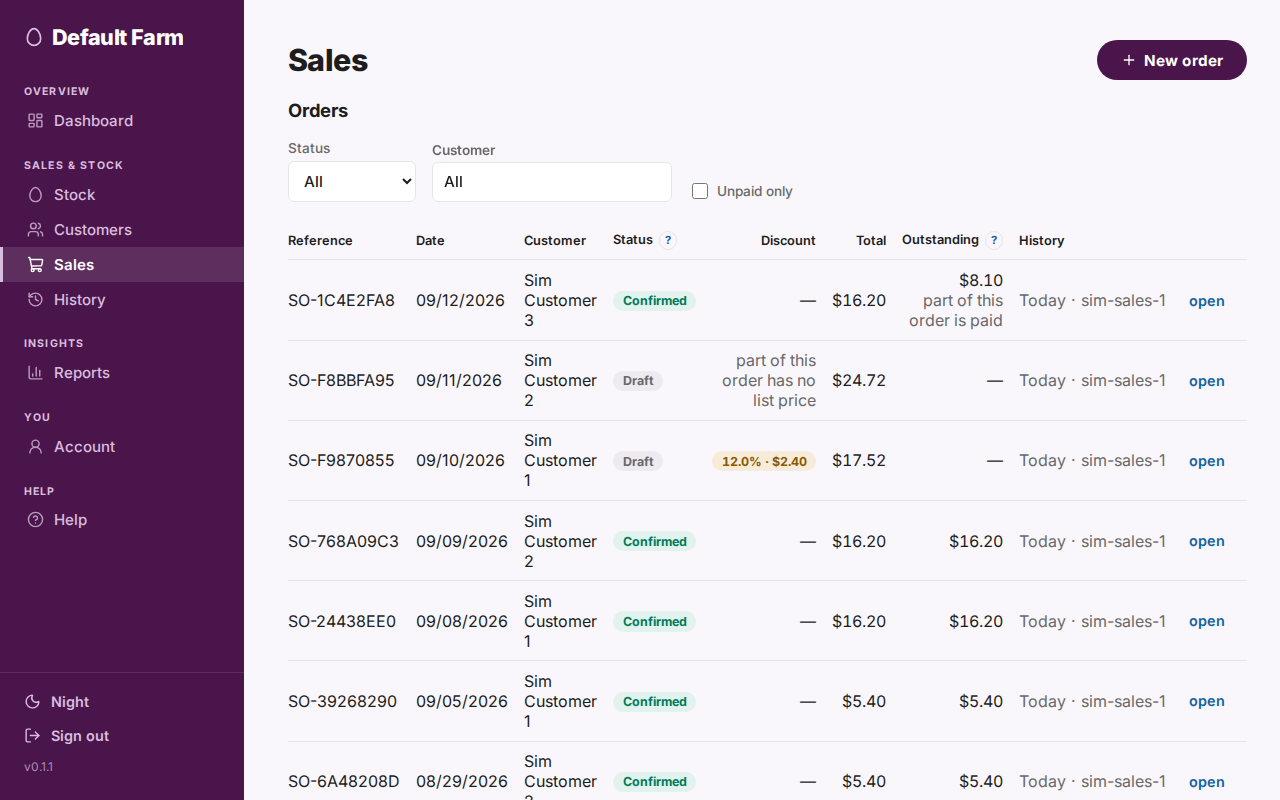
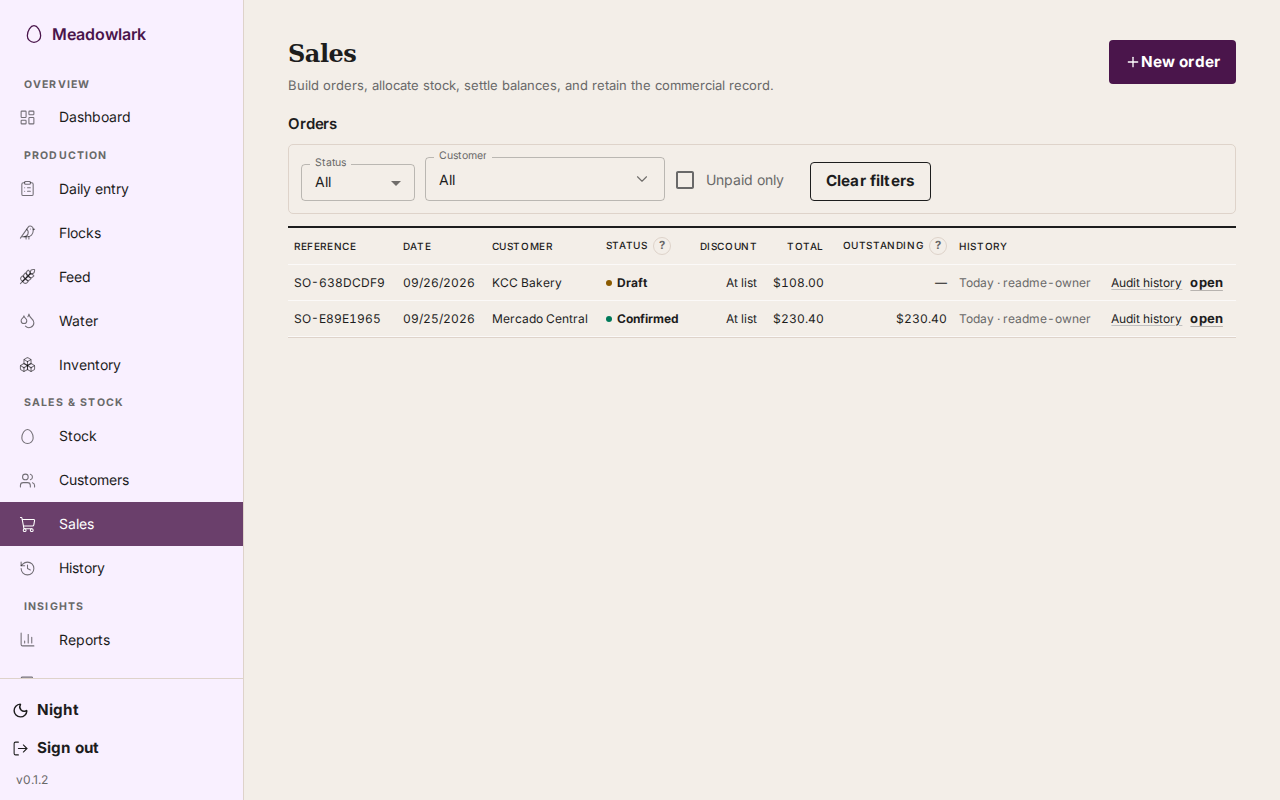
docs: recapture the README screenshots after the SPA revamp (#961)

diff --git a/tools/simulation/ui/playwright.screenshots.config.ts b/tools/simulation/ui/playwright.screenshots.config.ts
@@ -1,11 +1,8 @@
 // tools/simulation/ui/playwright.screenshots.config.ts — #549.
 //
-// Captures the README's screenshots from the REAL built SPA over the same
-// `seed --profile simulation` fixture every other spec here uses. Deliberately
-// a THIRD config rather than a spec in `specs/`: this run WRITES FILES into the
-// repo (docs/images/), and a capture that rides along with `npm test` would
-// rewrite committed images on every smoke run — turning an unrelated green run
-// into a dirty working tree.
+// Captures the README's screenshots from the built SPA over the simulation
+// and demo farms. This separate config keeps `npm test` from rewriting the
+// committed PNGs in docs/images/ on every smoke run.
 //
 // NOT a visual-regression suite. Nothing here asserts on pixels; rendering is
 // not byte-deterministic across fonts and antialiasing, so a byte-diff gate
@@ -52,9 +49,7 @@ export default defineConfig({
   projects: [
     {
       name: "chromium",
-      // The dashboard capture runs in its own project below, at a taller
-      // frame (#660) — excluded here so this project's three images stay
-      // byte-identical to before.
+      // The dashboard uses its own taller viewport below.
       grepInvert: /dashboard — the morning view/,
       use: {
         ...devices["Desktop Chrome"],
@@ -64,18 +59,11 @@ export default defineConfig({
         // project's `use` beats the top-level one. Setting the frame above the
         // spread silently captures at the device's size instead of this one.
         //
-        // A fixed frame means a refreshed image differs from its predecessor
-        // only where the app changed. 1280x800 is the widest that still reads
-        // at GitHub's rendered README width without shrinking the type to
-        // noise.
+        // Daily entry uses this height; Reports and Sales set their own
+        // viewports in the spec to fit their content.
         //
-        // Scale 1, measured rather than assumed: at scale 2 the three images
-        // are 910 KB, at scale 1 they are 382 KB, and GitHub renders a README
-        // image into roughly 890 CSS pixels — so a 1280-wide capture still has
-        // ~1.4x the pixels of its slot and stays sharp on a HiDPI display.
-        // Every regeneration adds its bytes to git history permanently, which
-        // is what makes the 2.4x worth avoiding.
-        viewport: { width: 1280, height: 800 },
+        // Scale 1 keeps the committed PNGs at their CSS pixel size.
+        viewport: { width: 1280, height: 1000 },
         deviceScaleFactor: 1,
 
         launchOptions: executablePath ? { executablePath } : {},
@@ -83,25 +71,12 @@ export default defineConfig({
     },
     {
       name: "chromium-dashboard",
-      // #660: the 1280x800 frame showed only the alarm-state tile grid — the
-      // 14-day trend, stock, and recent-sales panels fell below the fold, so
-      // this capture got its own project at 1280x1180.
-      //
-      // WHAT DECIDES THAT NUMBER HAS CHANGED, and the height is no longer
-      // shrinkable to fit the content. Since the capture moved to the
-      // demo-seeded README farm, its main column ends at 700px — two tiles
-      // instead of twelve — and there is visible empty page below it. The
-      // SIDEBAR is what holds the frame open now: signed in as an Owner every
-      // destination is offered, and measured against the rendered page that
-      // column's own content ends at 1164px with the footer pinned to the
-      // viewport bottom. Anything shorter clips the navigation mid-list and
-      // overlaps it with Night/Sign out, which looks broken in a way the empty
-      // space does not. Re-measure before changing it; do not infer it from the
-      // main column.
+      // #920: Morning collection, stock, recent orders, and the Lay rate
+      // KPI all fit in this 1:1 frame after the dashboard redesign.
       grep: /dashboard — the morning view/,
       use: {
         ...devices["Desktop Chrome"],
-        viewport: { width: 1280, height: 1180 },
+        viewport: { width: 1280, height: 1300 },
         deviceScaleFactor: 1,
         launchOptions: executablePath ? { executablePath } : {},
       },

diff --git a/tools/simulation/ui/specs-screenshots/screenshots.spec.ts b/tools/simulation/ui/specs-screenshots/screenshots.spec.ts
@@ -1,14 +1,14 @@
 // tools/simulation/ui/specs-screenshots/screenshots.spec.ts — #549.
 //
-// Captures the three images the root README embeds, from the REAL built SPA
-// over the #243 simulation fixture. Run it deliberately:
+// Captures the four images the root README embeds, from the built SPA
+// over the simulation and demo farms. Run it deliberately:
 //
 //     npm run screenshots        # from tools/simulation/ui, with the sim stack up
 //
 // ================== THE STALENESS CONTRACT ==================
 //
 // These images are DOCUMENTATION ARTEFACTS, not test baselines, and **nothing
-// enforces that they match the current UI**. A change to any of the three
+// enforces that they match the current UI**. A change to any of the four
 // screens below silently invalidates them; a reviewer looking at a stale
 // screenshot cannot tell. The honest mitigation is the one this file can
 // actually keep: the capture is scripted, so refreshing is one command rather
@@ -86,11 +86,8 @@ test.describe("README screenshots", () => {
   // exactly one user and it holds the Owner role. Both derive `isAdmin`, so the
   // recent-sales panel asserted below renders either way.
   //
-  // The image IS committed and the README embeds it (#660, #663) — all four
-  // captures this file produces are tracked. #660 gave this test its own project
-  // in playwright.screenshots.config.ts at a taller 1280x1180 frame, so the
-  // trend, stock and recent-sales panels are captured below the tiles instead of
-  // falling off a 1280x800 fold.
+  // The dashboard uses its own 1280x1300 project so the Lay rate KPI fits
+  // below Morning collection, stock, and recent orders.
 
   test("dashboard — the morning view: capture status, the fortnight, stock by grade", async ({ page, signIn }) => {
     await signIn(readmeFarmOwner());
@@ -203,6 +200,7 @@ test.describe("README screenshots", () => {
 
   test("reports — production and money over the seeded period", async ({ page, signIn, farm }) => {
     await signIn(castMember("Owner"));
+    await page.setViewportSize({ width: 1280, height: 1100 });
     await page.goto("/reports");
 
     // The default range ends TODAY, and the fixture's most recent days are
@@ -239,7 +237,8 @@ test.describe("README screenshots", () => {
   });
 
   test("sales — orders across their lifecycle", async ({ page, signIn }) => {
-    await signIn(castMember("Sales"));
+    await signIn(readmeFarmOwner());
+    await page.setViewportSize({ width: 1280, height: 800 });
     await page.goto("/sales");
 
     await expect(page.getByRole("heading", { name: tEn("sales:ordersHeading") })).toBeVisible();

diff --git a/README.md b/README.md
@@ -9,9 +9,15 @@ production, track egg lots from the hen through to the sale with full
 traceability, block medication-restricted lots, manage sales and customers, and
 see the numbers that matter (hen-day rate, saleable %, stock on hand).
 
-![The dashboard: today's capture-status tiles by flock, a 14-day production trend, stock on hand by grade, and recent sales orders](docs/images/dashboard.png)
+The Dashboard brings the morning brief, collection status, stock by grade,
+recent orders, and the Lay rate trend onto one screen.
 
-![The daily entry screen: egg counts and grading for one flock on one day, with the sellable total derived from them](docs/images/daily-entry.png)
+![Meadowlark Dashboard with a morning brief, collection status for two houses, stock by grade, recent orders, and a 14-day Lay rate chart](docs/images/dashboard.png)
+
+Daily entry separates collection and grading counts for one flock and day. It
+shows the sellable target and whether the graded count balances.
+
+![Daily entry for Sim House A with collection and grading counts, a sellable target, and Save draft and Submit day actions](docs/images/daily-entry.png)
 
 - **Backend:** C# / .NET 10 (ASP.NET Core minimal APIs) · **Database:** PostgreSQL (EF Core)
 - **Frontend:** React 19 + Vite (TypeScript), served by the API in production
@@ -86,20 +92,21 @@ fails: [first admin provisioning](docs/runbooks/first-admin-provisioning.md).
 
 ## More of it
 
-Sales orders through their lifecycle — draft, confirmed, with who did what and
-when against each one:
+Sales orders move from draft to confirmed. Filter by status and customer, or
+show unpaid orders only. Each row shows the total, outstanding amount, and a
+link to its audit history.
 
-![The sales screen: a filterable order list showing reference, date, customer, status, total, and a history column naming the user who created and confirmed each order](docs/images/sales.png)
+![Sales page with status and customer filters, an Unpaid only checkbox, and draft and confirmed orders with totals, outstanding balances, and audit history links](docs/images/sales.png)
 
-The numbers a farm actually runs on — daily production with losses split by
-cause, hen-day %, the by-grade breakdown, and the money beside it:
+Reports show daily production for a selected date range, grade totals, and a
+Money summary of revenue, expenses, and basic profit.
 
-![The reports screen: a seven-day production table with eggs, losses, sellable, condition, deaths, hen-days and hen-day percent, then a money section summarising sales and expenses](docs/images/reports.png)
+![Reports page with a seven-day production table, reported grade totals, and a Money summary of revenue, expenses, and basic profit](docs/images/reports.png)
 
-Screenshots are captured from the real built SPA over the simulation fixture —
-[`tools/simulation/ui/specs-screenshots/`](tools/simulation/ui/specs-screenshots/),
-refreshed with `npm run screenshots`. Nothing enforces that they match the
-current UI; they are refreshed deliberately.
+The Dashboard and Sales images use the demo-seeded `readme-farm`; Daily entry
+and Reports use the simulation fixture. All four come from the built SPA via
+[`tools/simulation/ui/specs-screenshots/`](tools/simulation/ui/specs-screenshots/)
+and are refreshed with `npm run screenshots`.
 
 ## Architecture
 
